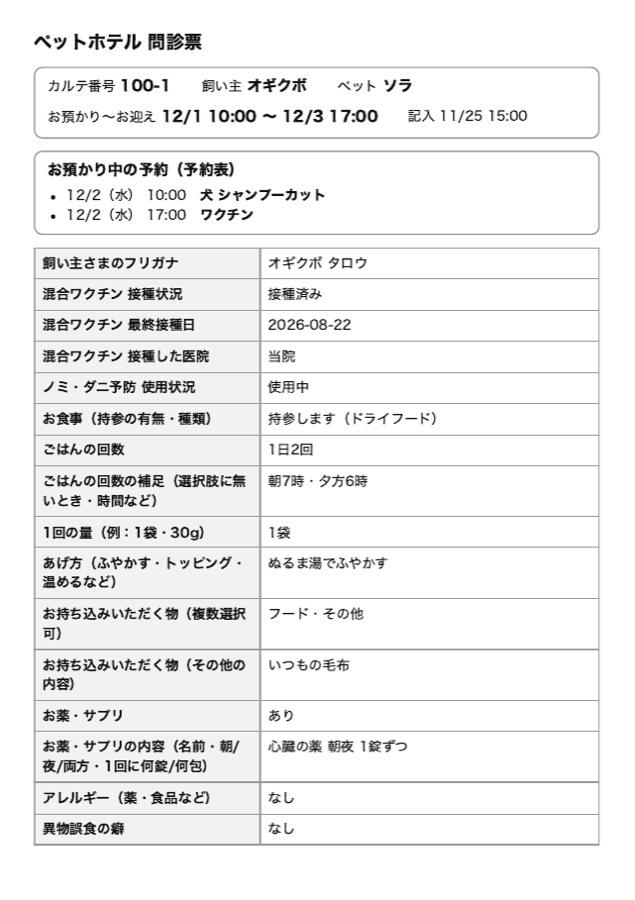
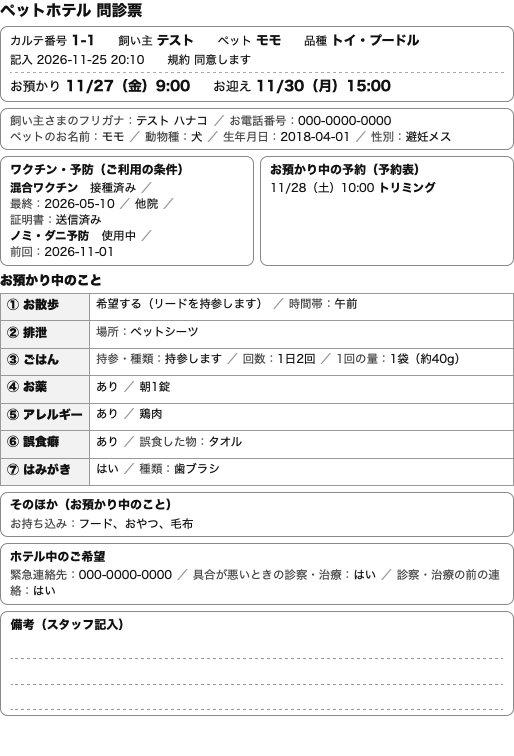
ホテル問診票の印刷 A5 の1枚（#313〜#317）・お食事の注意書き・在庫の設定タブと発注先を探す（#70）2026-11-27

Changed region(s): [[0.0, 0.0, 1.0, 0.9431]]

diff --git a/inventory.html b/inventory.html
@@ -69,7 +69,7 @@
 
 <div class="card">
 <b>30秒まとめ</b><br>
-院内の<b>在庫</b>と<b>発注</b>を1つで管理するアプリです（バージョン0.1.7）。足りない商品を<b>「発注を登録」</b>→ 実際に注文したら<b>「発注済み」</b>→ 届いたら<b>「納品済」</b>にすると履歴に記録されます。ときどき<b>棚卸</b>で実数を合わせ、<b>設定</b>でスタッフ・発注先・発注アラート・Excel/CSVを管理します。商品は現在<b>1,040件</b>登録されています。
+院内の<b>在庫</b>と<b>発注</b>を1つで管理するアプリです（バージョン0.1.9）。足りない商品を<b>「発注を登録」</b>→ 実際に注文したら<b>「発注済み」</b>→ 届いたら<b>「納品済」</b>にすると履歴に記録されます。ときどき<b>棚卸</b>で実数を合わせ、<b>設定</b>でスタッフ・発注先・発注アラート・Excel/CSVを管理します。商品は現在<b>1,040件</b>登録されています。
 <div style="margin-top:8px">
 <span class="badge b-staff">橙 = スタッフの操作</span>
 <span class="badge b-auto">緑 = 自動</span>
@@ -266,18 +266,19 @@
 <h2>8. 設定タブ</h2>
 <div class="card">
 <div class="shots">
-  <div class="shotwrap"><img class="shot" src="inv-settings.png" alt="設定トップ"><div class="cap">▲ 設定：スタッフ／発注先／アラート／CSV</div></div>
-  <div class="shotwrap"><img class="shot" src="inv-suppliers.png" alt="発注先管理"><div class="cap">▲ 発注先管理：注文方法・送料条件・締め時間などをメモできる</div></div>
+  <div class="shotwrap"><img class="shot" src="inv-settings.png" alt="設定トップ"><div class="cap">▲ 設定：上のタブ（スタッフ・発注先・発注アラート・CSV・棚卸・自動発注・アプリ情報）で切り替える（架空のデータ）</div></div>
+  <div class="shotwrap"><img class="shot" src="inv-suppliers.png" alt="発注先管理"><div class="cap">▲ 発注先管理：上の欄に名前などの一部を入れると絞り込める（架空のデータ）</div></div>
   <div class="shotwrap"><img class="shot" src="inv-csv.png" alt="Excel/CSV操作"><div class="cap">▲ Excel/CSV：一括登録・出力・棚卸データ出力</div></div>
 </div>
+<p>設定は<b>上のタブ</b>（スタッフ／発注先／発注アラート／CSV／棚卸・自動発注／アプリ情報）を押して、<b>1つずつ</b>開きます（2026年11月27日〜）。</p>
 <table>
 <tr><th style="width:32%">項目</th><th>できること</th></tr>
 <tr><td>スタッフ管理</td><td>担当者の追加・編集・削除。発注・棚卸の「担当者／入力者」に出てきます。</td></tr>
-<tr><td>発注先管理</td><td>発注先の<b>連絡先・連絡方法（Web注文など）・メモ</b>を管理。送料無料の条件・締め時間・グループコード等を書いておけます。新規追加は<b>名前・担当者・電話番号・メモ</b>。<b>「商品データから発注先をインポート」</b>で、登録済み商品の発注先を一括取り込みできます。</td></tr>
+<tr><td>発注先管理</td><td>発注先の<b>連絡先・連絡方法（Web注文など）・メモ</b>を管理。送料無料の条件・締め時間・グループコード等を書いておけます。新規追加は<b>名前・担当者・電話番号・メモ</b>。<b>「商品データから発注先をインポート」</b>で、登録済み商品の発注先を一括取り込みできます。一覧の上の<b>「🔍 発注先を探す」</b>に名前・別名・担当者・電話・メモの一部を入れると絞り込めます（ひらがな・カタカナ・半角カナのどれでも探せます）。</td></tr>
 <tr><td>発注アラート設定（分類）</td><td>チェックした分類の商品を発注登録するとき、<b>確認アラート</b>を表示。</td></tr>
 <tr><td>発注アラート設定（商品別）</td><td>商品ごとにアラートを<b>ON/OFF</b>。</td></tr>
 <tr><td>Excel / CSV 操作</td><td><b>インポート</b>（一括登録）／<b>エクスポート</b>（商品データ）／<b>棚卸データエクスポート</b>。フォーマットは <code>CSV(.csv) UTF-8</code>、列は <code>商品名, 商品分類, 発注先, 最低在庫, 現在庫, 箱単価</code>。すでにある商品と同じ名前の新しい行は取り込まず、結果に「同じ名前の商品があるので飛ばしました」と出ます。</td></tr>
-<tr><td>アプリ情報</td><td>アプリ名「在庫・発注管理」／バージョン 2.2 ／用途の表示。</td></tr>
+<tr><td>アプリ情報</td><td>アプリ名「在庫・発注管理」／バージョン（0.1.9）／用途の表示。</td></tr>
 </table>
 </div>
 

diff --git a/hotel-flow.html b/hotel-flow.html
@@ -150,6 +150,7 @@
 <div class="card">
 <table>
 <tr><th style="width:32%">質問</th><th>答え方（2026年11月25日〜）</th></tr>
+<tr><td>お食事</td><td>欄の下に<b>「ご飯は日数分を1食ごとに小分けしておもちください」</b>と出ます（2026年11月27日〜）。</td></tr>
 <tr><td>ごはんの回数</td><td>選択肢（1日1〜3回）に加えて、<b>補足を自由に</b>書けます（時間・選択肢に無い回数など）。</td></tr>
 <tr><td>お持ち込みの物</td><td>「その他」を選ぶと<b>内容を書く欄</b>が出ます。</td></tr>
 <tr><td>普段の排泄の場所（犬だけ）</td><td>外・屋内・ペットシーツ・その他（その他は内容を書く）。猫には出ません。犬か猫かは当院のカルテから分かるので、飼い主さまには聞きません（分からないときだけ「動物種」を選んでいただきます）。</td></tr>
@@ -174,16 +175,18 @@
 <div class="card">
 <ol>
 <li>予約を開き、「📝 問診票を開く」の横の<b>「🖨 問診票を印刷（A5）」</b>を押します。</li>
-<li>別のタブに印刷の画面が出ます。<b>用紙は A5（縦）</b>を選んで印刷します。</li>
+<li>別のタブに印刷の画面が出ます。<b>用紙は A5（縦）</b>を選び、<b>倍率は 100% のまま</b>印刷します（1枚に入ります）。</li>
 <li>終わったら、印刷の画面の左上の<b>「← 予約表に戻る」</b>を押すと、印刷のタブが閉じて予約表に戻ります（iPad でも同じ）。</li>
 </ol>
-<figure style="margin:8px 0"><img class="shot" src="hotelflow-a5-1.png" alt="A5 の問診票" style="max-width:340px"><div class="cap">▲ A5 の1枚目（架空のデータ）。答えが多いと2枚になります</div></figure>
+<figure style="margin:8px 0"><img class="shot" src="hotelflow-a5-1.png" alt="A5 の問診票" style="max-width:340px"><div class="cap">▲ A5 の問診票（架空のデータ）。答えが長いときは、手書きの空きを減らし文字を少し小さくして1枚に収めます（2026年11月27日〜）</div></figure>
 <table>
 <tr><th style="width:32%">載るもの</th><th>中身</th></tr>
-<tr><td>上の囲み</td><td>カルテ番号・飼い主（姓）・ペット・お預かり〜お迎え・記入日時</td></tr>
+<tr><td>上の囲み</td><td>カルテ番号・飼い主（姓）・ペット・<b>品種</b>・記入日時・規約。下の段に<b>お預かり</b>と<b>お迎え</b>の日時（曜日つき・部屋を移る連泊も最初〜最後）</td></tr>
+<tr><td>ワクチン・予防</td><td>混合ワクチンとノミ・ダニ予防を1行ずつ</td></tr>
 <tr><td>お預かり中の予約（予約表）</td><td>その子の、お預かりの日〜お迎えの日に予約表に入っている<b>トリミング・診察（再診・初診・健康診断・避妊相談など）・ワクチン・狂犬病・フィラリア・歯科検診</b>。無ければ「入っていません」。</td></tr>
-<tr><td>問診票の答え</td><td>飼い主さまが送った答えの全部。<b>系統ごとの見出し</b>つきで並びます（どこにも入らない昔の質問は最後の「そのほか」）。他院で打った子は「ワクチン証明書の写真：今回お送りいただきました／前回お送りいただいた写真（○/○ 受け取り）」の行が入ります。</td></tr>
-<tr><td>備考（スタッフ記入）</td><td>最後に<b>手で書き込める枠</b>（4行）があります。</td></tr>
+<tr><td>お預かり中のこと</td><td><b>①お散歩 ②排泄 ③ごはん ④お薬 ⑤アレルギー ⑥誤食癖 ⑦はみがき</b>の欄。答えが無い欄も空けてあり、手で書き足せます。</td></tr>
+<tr><td>問診票のほかの答え</td><td>飼い主さまが送った答えの残り全部（お持ち込み・性格・ホテル中のご希望など）を短い名前で詰めて並べます（どこにも入らない昔の質問は最後の「そのほか」）。他院で打った子は「ワクチン証明書の写真：今回お送りいただきました／前回お送りいただいた写真（○/○ 受け取り）」の行が入ります。</td></tr>
+<tr><td>備考（スタッフ記入）</td><td>最後に<b>手で書き込める枠</b>（3行・答えが長いときは2行）があります。</td></tr>
 </table>
 <div class="imp">⚠ 印刷した問診票には飼い主さま・ペットの情報が載ります。<b>受付の外に置いたままにしない・持ち出さない</b>でください。</div>
 </div>

diff --git a/hotel-flow-print.html b/hotel-flow-print.html
@@ -45,7 +45,7 @@
 <li><span class="who o">飼い主さま</span><b>ホテルの問診票</b>を送る。<b>ふりがな・混合ワクチン・ノミダニは当院のカルテから自動で入る</b>（飼い主さまが直せる）。</li>
 <li><span class="who a">自動</span>問診票が届くと<b>予約が確定</b>（確定の LINE が届く）。<b>1時間たっても届かなければ自動で取り消し</b>。</li>
 <li><span class="who s">スタッフ</span>予約表 <b>Hotel タブ</b>で<b>「問診票あり」</b>を確認 → 予約を開き<b>「📋 ホテルの問診票」</b>でお薬・アレルギー・はみがきを見る → <b>「📝 問診票を開く」</b>で全部。</li>
-<li><span class="who s">スタッフ</span><b>「🖨 問診票を印刷（A5）」</b>→ 用紙 <b>A5（縦）</b>で印刷。<b>お預かり中の予約（トリミング・診察など）</b>も載る。</li>
+<li><span class="who s">スタッフ</span><b>「🖨 問診票を印刷（A5）」</b>→ 用紙 <b>A5（縦）・倍率 100%</b>で印刷（1枚に入る）。<b>お預かり中の予約（トリミング・診察など）</b>も載る。</li>
 <li><span class="who a">自動</span>入院カルテの<b>ホテル台帳</b>に答えが入る（空の欄だけ）。上の帯<b>「ホテル中の予定」</b>にトリミング・診察・ワクチンなどが出る。</li>
 </ol>
 
